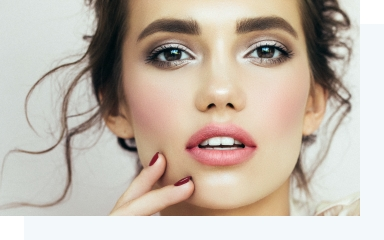
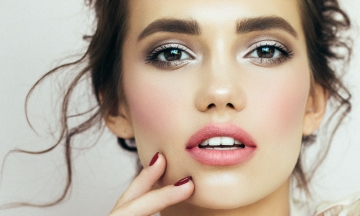
training

diff --git a/resources/assets/styles/components/shampoo.scss b/resources/assets/styles/components/shampoo.scss
@@ -5,7 +5,7 @@
   justify-content: space-between;
   overflow: hidden;
   @media (max-width: 991px) {
-    padding-bottom: 140px;
+    padding-bottom: 0;
     padding-top: 0;
   }
   h2 {
@@ -20,12 +20,13 @@
       font-weight: 400;
       line-height: 80px;
     }
-    img {
+    .big-put {
       @media (max-width: 575px) {
-        margin-right: -230px;
+        right: -90px;
       }
     }
     h2 {
+      margin-top: 30px;
       color: #a5a1a1;
       font-size: 64px !important;
       font-weight: 400;
@@ -46,7 +47,7 @@
     justify-content: flex-start;
     align-items: flex-end;
     position: relative;
-    z-index: 12;
+    z-index: 1;
     @media (max-width: 991px) {
       display: none;
     }
@@ -109,6 +110,15 @@
       left: -152px;
     }
   }
+  &__bg {
+    width: 489px;
+    height: 264px;
+    z-index: 1;
+    @media (max-width: 1119px) {
+      width: 384px;
+      height: 254px;
+    }
+  }
   &__center {
     z-index: 12;
     position: relative;
@@ -119,6 +129,7 @@
       display: none;
     }
     h2 {
+      z-index: 99;
       color: #4a3c3a;
       font-size: 64px;
       font-weight: 400;

diff --git a/resources/assets/styles/components/treatments.scss b/resources/assets/styles/components/treatments.scss
@@ -51,9 +51,16 @@
     @media (max-width: 991px) {
       display: none;
     }
-    img:last-child {
+    .big-put {
+      width: 384px;
+      height: 240px;
+    }
+    .big-put:last-child {
+      background-position: left;
       position: relative;
-      right: -105px;
+      right: -66px;
+      width: 489px;
+      height: 584px;
     }
   }
   &__bg {

diff --git a/resources/assets/styles/components/hair-problem.scss b/resources/assets/styles/components/hair-problem.scss
@@ -1,8 +1,10 @@
 .hair-problem {
+  padding-top: 35px;
   padding-bottom: 120px;
   overflow: hidden;
   @media (max-width: 991px) {
     padding-bottom: 0;
+    padding-top: 140px;
   }
   &__text {
     max-width: 434px;
